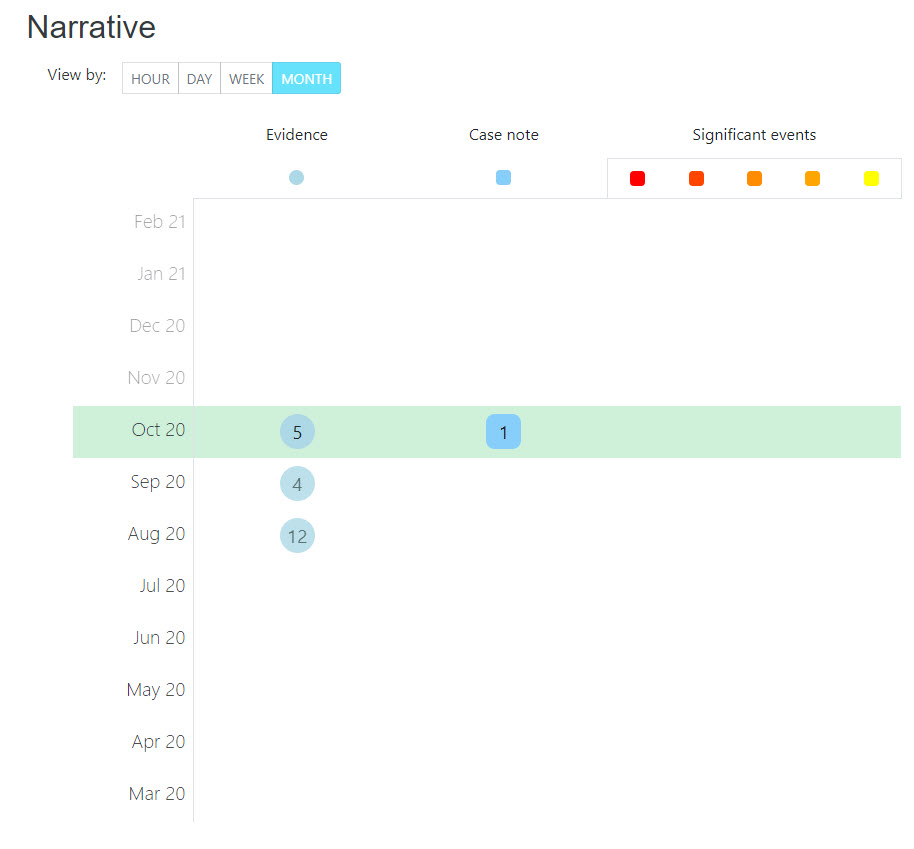
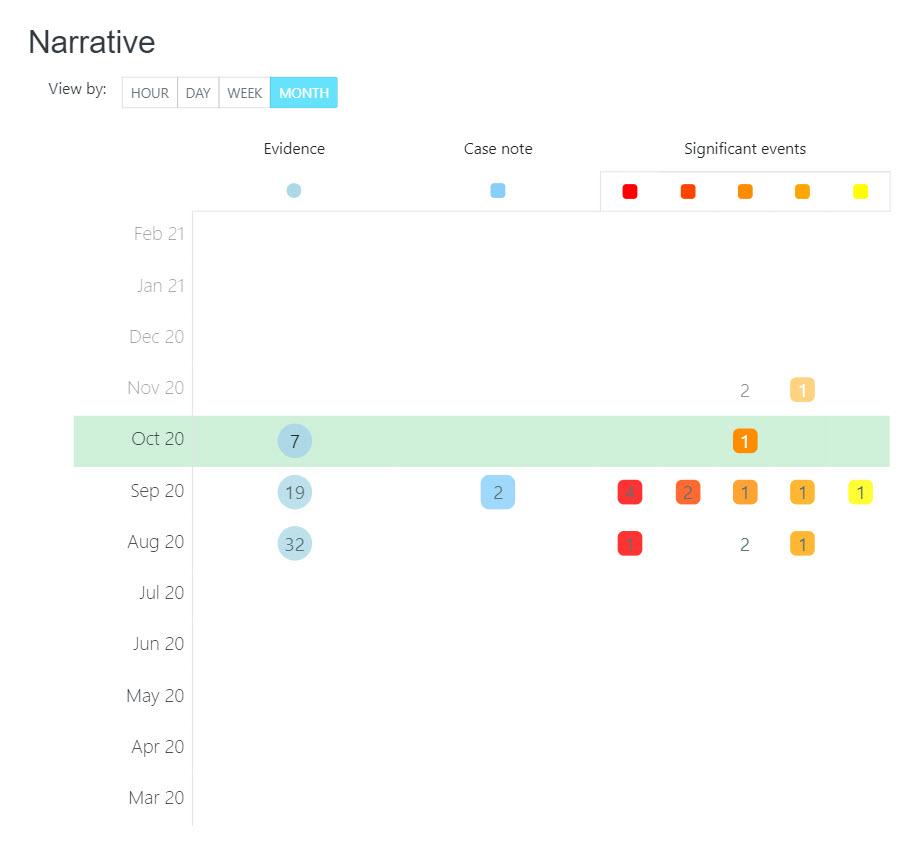
significant events

diff --git a/src/pages/documentation/how-to-record-a-significant-event.md b/src/pages/documentation/how-to-record-a-significant-event.md
@@ -1,7 +1,7 @@
 ---
 templateKey: documentation-post
 title: How to record a significant event
-description: How to record a significant event
+description: What are significant events and how can they help NCCD adjustments and best practice for teachers. 
 tags:
   - events
   - students
@@ -13,14 +13,17 @@ tags:
 * [What is a significant event?](#what-is-a-significant-event)
 * [How to record a significant event](#record-significant-event)
 * [How to record an historical or origin significant event](#record-historical-event)
+* [Reviewing significant events](#review-events)
 
-<a id="what-is-a-significant-event"></a>
+<a id="what-is-a-significant-event" style="margin-top: 100px; display: block"></a>
 
 ## What is a significant event?
 
-A significant event is something extraordinary that has impacted a student. JUNIPA helps with the recording and referencing of significant events, creating an up-to-date comprehensive picture of a student. 
+A significant event is something extraordinary that has impacted a student. 
 
-The Adjustment Narrative of each student will then surface these events, providing more context to staff, prior to and after specific events. 
+Significant events are recorded in Junipa and are then displayed on a <a href="/documentation/basics-101/#exercise-5/">student's narrative</a>, providing more context to staff.  A recurring historical event can remind staff, ahead of time, of the event so staff can plan accordingly. 
+
+![Student journal](/img/scr-student-journal-narrative.jpg "Student journal")
 
 JUNIPA provides the following significant event grades: 
 
@@ -28,7 +31,7 @@ JUNIPA provides the following significant event grades:
 
 >The process of grading a severity level to each event rests with the school.
 
-<a id="record-significant-event"></a>
+<a id="record-significant-event" style="margin-top: 100px; display: block"></a>
 
 ## How to record a significant event
 
@@ -43,7 +46,7 @@ JUNIPA provides the following significant event grades:
 5. Select Save
 
 
-<a id="record-historical-event"></a>
+<a id="record-historical-event" style="margin-top: 100px; display: block"></a>
 
 ## How to record an historical or origin significant event
 
@@ -61,3 +64,20 @@ An event that is occuring for the first time, or recently, can be set as an orig
 2. Complete the significant even form
 3. Select an appropriate impact level
 4. Select Save
+
+
+<a id="review-events" style="margin-top: 100px; display: block"></a>
+
+## Reviewing significant events
+
+Reviewing significant events in a set period of time helps identify patterns and may assist with planning student adjustments ahead of time. 
+
+![Significant Event Identify ](/img/scr-student-narrative-week-view-identify.jpg "Significant Event Identify")
+
+### Steps taken 
+
+1. Navigate to the student screen and review Narrative
+2. Change View by filter to Hour, Day or Week
+3. Identify event clusters
+
+

diff --git a/src/pages/documentation/basics-101.md b/src/pages/documentation/basics-101.md
@@ -149,6 +149,7 @@ A summary of NCCD evidence
 
 ![Student Journal evidence summary](/img/scr-student-journal-evidence-summary.jpg "Student Journal evidence summary")
 
+<a id="narrative" style="margin-top:50px; display: block; "></a>
 
 #### Narrative:
 
